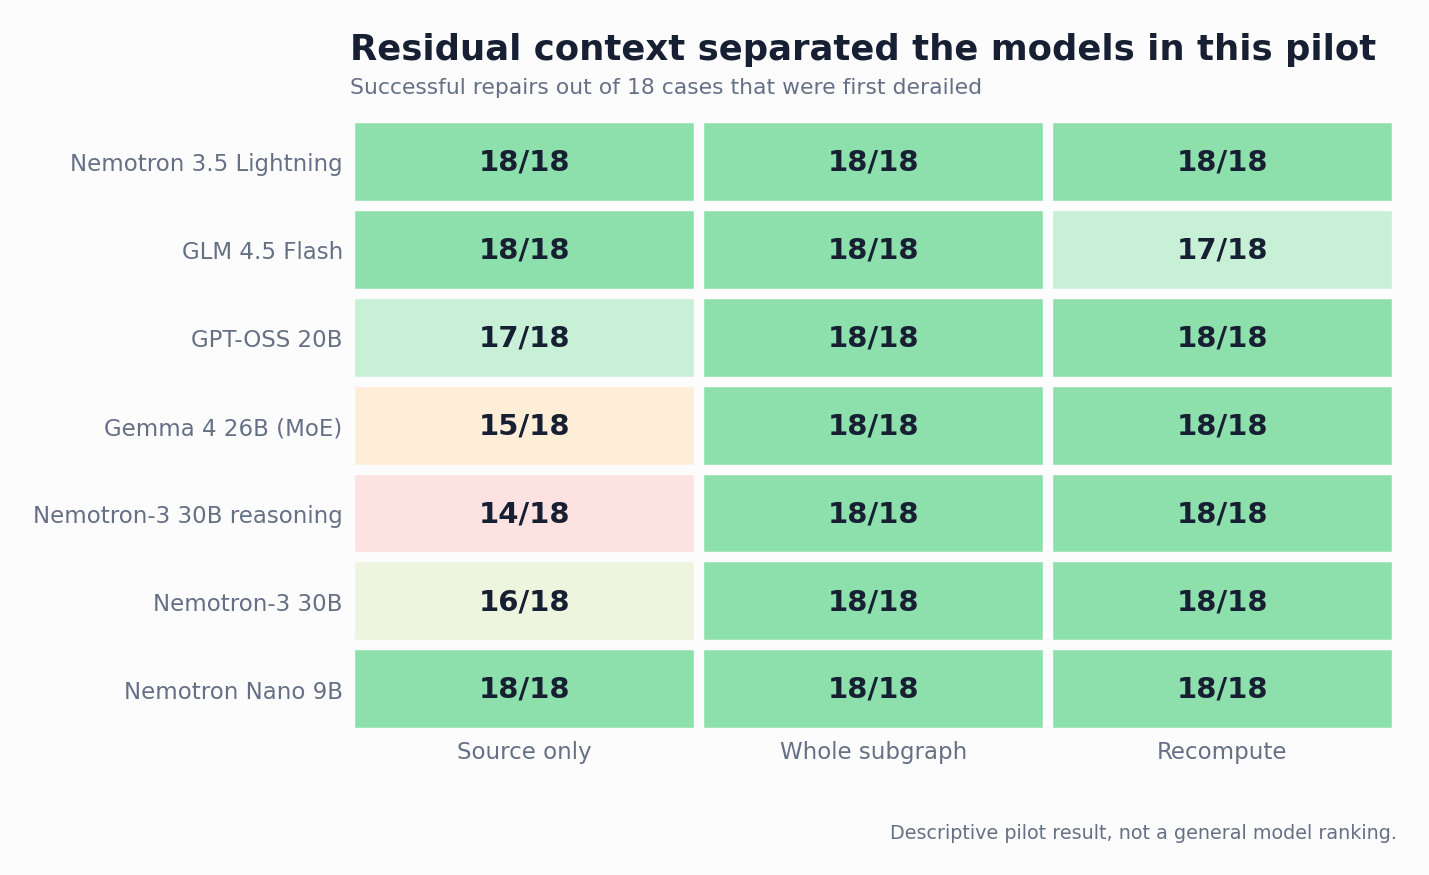
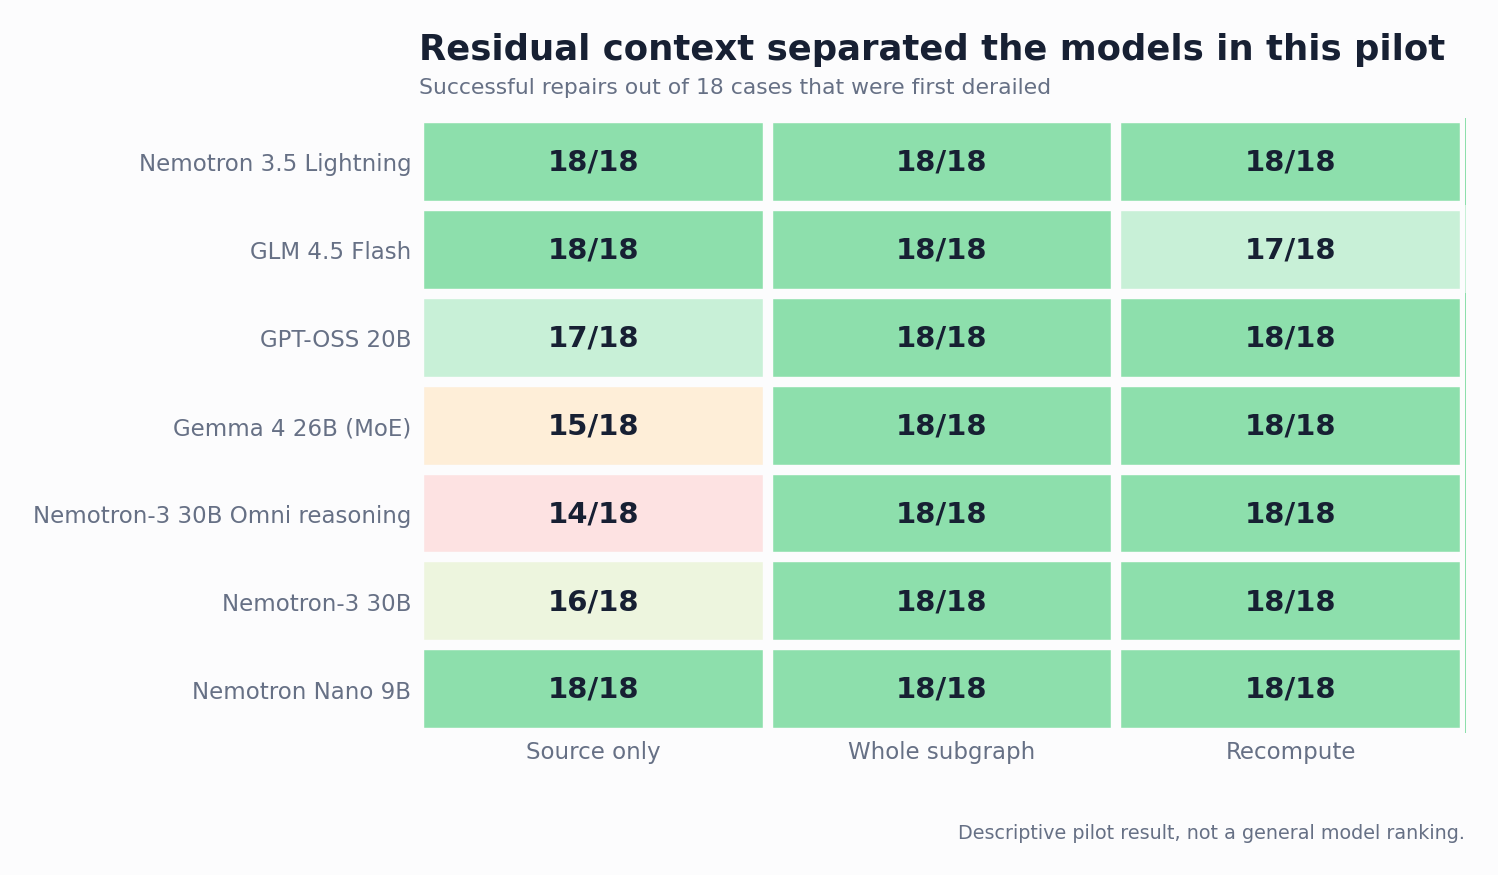
A claim withdrawn is a record kept: the 30B comparison steps down to exploratory, and the correction is written where the claim once stood

diff --git a/website/research/context-repair-pilot-v2/index.html b/website/research/context-repair-pilot-v2/index.html
@@ -71,7 +71,7 @@
           <p>A false turn then restores 30. Three descendants propagate that mistake: <code>4 × 30 = 120</code>, then <code>120 + 11 = 131</code>, followed by a restatement of the stale working values. The final question always asks for one number using the fixed inputs.</p>
           <figure class="report-figure">
             <img src="../../assets/context-repair-flagship.png" alt="Five graph conditions and seven model outputs in the flagship depot-crates case" />
-            <figcaption>Five graph states, one unchanged final question. Three of seven endpoints — from three different vendors — still returned the identical wrong number 131 after the false source itself was removed.</figcaption>
+            <figcaption>Five graph states, one unchanged final question. Three of seven endpoints, from three different vendors, still returned the identical wrong number 131 after the false source itself was removed.</figcaption>
           </figure>
         </section>
 
@@ -94,7 +94,7 @@
 
         <section class="report-section" id="flagship">
           <h2>The flagship result</h2>
-          <p>Seven model endpoints were tested at temperature 0 with provider-default reasoning settings. On this one case, every model agrees on four of the five graph states — and splits on exactly one.</p>
+          <p>Seven model endpoints were tested at temperature 0 with provider-default reasoning settings. On this one case, every model agrees on four of the five graph states and splits on exactly one.</p>
           <div class="report-table-wrap">
             <table class="report-table">
               <thead><tr><th>Graph condition</th><th>Outcome across the seven endpoints</th></tr></thead>
@@ -113,14 +113,14 @@
         <section class="report-section" id="pilot">
           <h2>What happened across the full pilot</h2>
           <p>The pilot contains 9 task families at propagation depths 1, 2, and 3. Each model ran 135 conditions. Headline repair metrics are conditioned on cases answered correctly under clean context and incorrectly after pollution. Four endpoints were captured on August 16; three more joined on August 19 as controlled pairs (see the next section).</p>
-          <h3>Context sensitivity was consistent — seven for seven</h3>
+          <h3>Context sensitivity was consistent, seven for seven</h3>
           <ul>
             <li>Clean context: 27/27 correct for every model.</li>
             <li>Explicit misinformation: 9/9 caused a wrong answer for every model.</li>
             <li>False supersession of a verified update: 9/9 caused a wrong answer for every model.</li>
             <li>A numerically similar but irrelevant aside: 0/9 caused a wrong answer for every model.</li>
           </ul>
-          <p>Seven models from four vendors reproduce this three-way split cell for cell. Whether context derails a model is decided by the <em>type</em> of pollution — conflicting claims always land, irrelevant asides never do.</p>
+          <p>Seven endpoints from four vendors reproduce this three-way split cell for cell. Whether context derails a model is decided by the <em>type</em> of pollution: conflicting claims always land, and irrelevant asides never do.</p>
           <h3>Repair strategy mattered</h3>
           <div class="report-table-wrap">
             <table class="report-table">
@@ -136,7 +136,7 @@
             <img src="../../assets/context-repair-strategies.png" alt="Recovery rates for three context repair strategies" />
             <figcaption>Recovery among the 126 paired cases that were first derailed by conflicting context, across all seven endpoints.</figcaption>
           </figure>
-          <p>Nine of the ten source-prune failures occurred in false-supersession cases; Gemma showed the clearest depth pattern: 6/6 at depth 1, 5/6 at depth 2, and 4/6 at depth 3. Stale information that was once true is the stickiest pollution: with the false rollback deleted, its echoes in later turns read like ordinary history.</p>
+          <p>Nine of the ten source-prune failures occurred in false-supersession cases. Gemma showed the clearest depth pattern: 6/6 at depth 1, 5/6 at depth 2, and 4/6 at depth 3. Stale information that was once true is the stickiest pollution: with the false rollback deleted, its echoes in later turns read like ordinary history.</p>
           <figure class="report-figure">
             <img src="../../assets/context-repair-model-matrix.png" alt="Repair successes by model and strategy" />
             <figcaption>The pilot is a test of context intervention, not an authoritative model leaderboard.</figcaption>
@@ -145,7 +145,7 @@
 
         <section class="report-section" id="wave2">
           <h2>A second wave of controlled pairs</h2>
-          <p>Three further free endpoints were chosen not for coverage but as <em>pairs</em>, each isolating one variable. Two predictions were registered before running; both were refuted — which is the point of registering them.</p>
+          <p>Three further free endpoints joined as a second wave. Two predictions were registered before running. One was refuted by the data. The other, it turned out, could not be validly tested with the endpoints as captured; the correction is recorded below rather than papered over.</p>
           <div class="report-table-wrap">
             <table class="report-table">
               <thead><tr><th>Model</th><th>Source only</th><th>by depth (k1 / k2 / k3)</th><th>Subgraph</th><th>Recompute</th></tr></thead>
@@ -154,17 +154,18 @@
                 <tr><td>Nemotron 3.5 Lightning</td><td>18/18</td><td>6 / 6 / 6</td><td>18/18</td><td>18/18</td></tr>
                 <tr><td>Gemma 4 26B (MoE)</td><td>15/18</td><td>6 / 5 / 4</td><td>18/18</td><td>18/18</td></tr>
                 <tr><td>GPT-OSS 20B</td><td>17/18</td><td>6 / 6 / 5</td><td>18/18</td><td>18/18</td></tr>
-                <tr><td>Nemotron-3 Nano 30B <em>reasoning</em></td><td>14/18</td><td>4 / 6 / 4</td><td>18/18</td><td>18/18</td></tr>
+                <tr><td>Nemotron-3 Nano 30B Omni reasoning</td><td>14/18</td><td>4 / 6 / 4</td><td>18/18</td><td>18/18</td></tr>
                 <tr><td>Nemotron-3 Nano 30B</td><td>16/18</td><td>5 / 6 / 5</td><td>18/18</td><td>18/18</td></tr>
                 <tr><td>Nemotron Nano 9B</td><td>18/18</td><td>6 / 6 / 6</td><td>18/18</td><td>18/18</td></tr>
               </tbody>
             </table>
           </div>
-          <h3>Reasoning does not protect against residual context — it may amplify it</h3>
-          <p>The cleanest pair: two 30B models from the same vendor, same architecture, differing only in explicit reasoning. The registered prediction was that a reasoning model would "think through" the contaminated echoes and resist them. The opposite held: the reasoning variant recovered 14/18 under source-only pruning against its sibling's 16/18, and produced the only misinformation-type source-prune failure observed in any model. A plausible mechanism — recorded here as a hypothesis, not a finding — is that explicit reasoning revisits the contaminated echoes as evidence, giving the stale value more chances to be adopted rather than more chances to be doubted.</p>
+          <h3>An exploratory 30B comparison, and a correction</h3>
+          <p>The registered prediction was that an explicitly reasoning model would "think through" contaminated echoes and resist them better than a non-reasoning sibling. The comparison as captured does not test this, for two reasons. The endpoints are different models rather than one model with a switch: the reasoning endpoint is the Omni variant, which ships vision and speech encoders, while its sibling is text-only. And both were run with provider-default reasoning settings, so reasoning was never explicitly toggled on either side.</p>
+          <p>What remains is an exploratory observation between two same-vendor, similar-scale endpoints: the Omni reasoning endpoint recovered 14/18 under source-only pruning against the text-only sibling's 16/18, and produced the only misinformation-type source-prune failure observed in any endpoint. Because the endpoints differ and reasoning was provider-default, this comparison does not isolate the effect of reasoning. A controlled ablation takes one text-only model with reasoning explicitly toggled per request; that experiment is planned, and any claim about reasoning is withheld until it runs.</p>
           <h3>Repair robustness is not a function of scale</h3>
-          <p>The second registered prediction was that a 9B model would break the clean-accuracy ceiling and show weaker repair. It did neither: Nemotron Nano 9B answered 27/27 clean and recovered every derailed case under every strategy — a perfect score its own 30B siblings did not match. Across seven models, resistance to residual contamination does not track parameter count, vendor, or reasoning mode; it looks like an individual property of the training recipe.</p>
-          <p class="report-meta">Two further endpoints (GLM-5.2 as a same-vendor generation pair, Gemma 4 31B dense as an architecture pair) are still being captured through free-tier rate limits and will be added when complete.</p>
+          <p>The second registered prediction was that a 9B model would break the clean-accuracy ceiling and show weaker repair. It did neither: Nemotron Nano 9B answered 27/27 clean and recovered every derailed case under every strategy, a perfect score its own 30B siblings did not match. Across seven endpoints, resistance to residual contamination tracks neither parameter count nor vendor; it looks like an individual property of the training recipe.</p>
+          <p class="report-meta">Two further endpoints are still being captured through free-tier rate limits: GLM-5.2 as a same-vendor generation pair and Gemma 4 31B dense as an architecture pair. They will be added when complete.</p>
         </section>
 
         <section class="report-section" id="meaning">
@@ -182,8 +183,8 @@
         <section class="report-section" id="lengthrot">
           <h2>Interference, not capacity: where this sits next to context-length degradation</h2>
           <p>A separate line of work shows that input <em>length alone</em> hurts models: <a class="text-link" href="https://research.trychroma.com/context-rot" target="_blank" rel="noreferrer">Chroma's Context Rot study ↗</a> measured non-uniform accuracy drops across 18 frontier models well before their advertised windows, and <a class="text-link" href="https://arxiv.org/abs/2502.05167" target="_blank" rel="noreferrer">NoLiMa ↗</a> found 11 of 12 models falling below half their short-context performance by 32K tokens (<a class="text-link" href="https://arxiv.org/abs/2404.06654" target="_blank" rel="noreferrer">RULER ↗</a> makes the same claimed-vs-effective distinction with synthetic retrieval).</p>
-          <p>This pilot is designed to sit on the other side of that divide. Every serialized request here is under 1K tokens — below 1% of any tested model's window — so capacity pressure is excluded by construction. What derails these models is a single conflicting sentence in an otherwise short context: <strong>semantic interference, not length</strong>. The two failure modes are complementary, and conflating them is easy; a token-matched neutral-filler control (same length, no conflict) is the planned next addition to separate them within the same task families.</p>
-          <p>The taxonomies also map onto each other. Context-rot work distinguishes <em>poisoning</em> (errors reproducing through context), <em>distraction</em>, and <em>confusion</em>; our three pollution operators — explicit misinformation, false supersession, and the numerically similar aside — probe the same territory with exact-match scoring. Notably, our "distraction" analogue never landed (0/9 for all seven models at these lengths), consistent with the view that irrelevant content mainly hurts as contexts grow long.</p>
+          <p>This pilot is designed to sit on the other side of that divide. Every serialized request here is under 1K tokens, below 1% of any tested model's window, so capacity pressure is excluded by construction. What derails these models is a single conflicting sentence in an otherwise short context: <strong>semantic interference, not length</strong>. The two failure modes are complementary, and conflating them is easy; a token-matched neutral-filler control (same length, no conflict) is the planned next addition to separate them within the same task families.</p>
+          <p>The taxonomies also map onto each other. Context-rot work distinguishes <em>poisoning</em> (errors reproducing through context), <em>distraction</em>, and <em>confusion</em>; our three pollution operators (explicit misinformation, false supersession, and the numerically similar aside) probe the same territory with exact-match scoring. Notably, our "distraction" analogue never landed (0/9 for all seven models at these lengths), consistent with the view that irrelevant content mainly hurts as contexts grow long.</p>
         </section>
 
         <section class="report-section" id="limits">

diff --git a/website/index.html b/website/index.html
@@ -1971,7 +1971,7 @@
         <div class="research-visual" aria-label="Editable context graph and pilot results">
           <div class="research-visual-bar">
             <span>CONTEXT REPAIR · PILOT V2</span>
-            <span>7 MODELS · 945 RUNS</span>
+            <span>7 ENDPOINTS · 945 CONDITIONS</span>
           </div>
           <div class="mini-graph">
             <svg viewBox="0 0 620 332" preserveAspectRatio="none" aria-hidden="true">

diff --git a/benchmark/tools/generate_figures.py b/benchmark/tools/generate_figures.py
@@ -21,7 +21,7 @@ RUNS = [
     ("GLM 4.5 Flash", "GLM-Flash", ROOT / "benchmark/runs/pilot-v1-glm45flash-2026-08-16/results.json"),
     ("GPT-OSS 20B", "GPT-OSS", ROOT / "benchmark/runs/pilot-v1-gptoss20b/results.json"),
     ("Gemma 4 26B (MoE)", "Gemma-26B", ROOT / "benchmark/runs/pilot-v1-gemma4-26b/results.json"),
-    ("Nemotron-3 30B reasoning", "N3-30B-R", ROOT / "benchmark/runs/pilot-v1-nemotron3-nano30b-reasoning/results.json"),
+    ("Nemotron-3 30B Omni reasoning", "N3-30B-R", ROOT / "benchmark/runs/pilot-v1-nemotron3-nano30b-reasoning/results.json"),
     ("Nemotron-3 30B", "N3-30B", ROOT / "benchmark/runs/pilot-v1-nemotron3-nano30b/results.json"),
     ("Nemotron Nano 9B", "N-9B", ROOT / "benchmark/runs/pilot-v1-nemotron-nano-9b/results.json"),
 ]

diff --git a/benchmark/STATUS.md b/benchmark/STATUS.md
@@ -1,6 +1,6 @@
 # Benchmark STATUS
 
-Last updated: 2026-08-16. Pilot / reference results only; never an authoritative leaderboard.
+Last updated: 2026-08-21. Pilot / reference results only; never an authoritative leaderboard. The benchmark and the v2 report are PUBLIC (repo + chenxiachan.github.io/thoughtdag/research/context-repair-pilot-v2/).
 
 ## Pilot v1 cross-model comparison — COMPLETE (4 models × 135 conditions each, zero capture failures)
 
@@ -29,25 +29,29 @@ Two different vendors' models (gemma-4-26b, gpt-oss-20b) fail the same cell with
 Story canvas: `canvases/results/rp-pilot-depot-crates-k3.story.thoughtdag.json` (Gemma run). Result canvases for all 27 pilot cases generated from pilot-v1-gemma4-26b.
 
 
-## Wave 2 — controlled pairs (2026-08-19), 3 of 5 complete
+## Wave 2 (2026-08-19), 3 of 5 complete
 
-New free endpoints chosen as PAIRS (one variable each), 135 conditions apiece, zero capture failures:
-- nemotron-3-nano-30b-a3b-reasoning vs nemotron-3-nano-30b-a3b (reasoning on/off, same vendor+size+arch)
+New free endpoints, 135 conditions apiece, zero capture failures:
+- nemotron-3-nano-omni-30b-a3b-reasoning and nemotron-3-nano-30b-a3b (an EXPLORATORY same-vendor comparison; see the correction below)
 - nemotron-nano-9b-v2 (scale-down axis)
-- IN PROGRESS: z-ai/glm-5.2:free (generation pair vs glm-4.5-flash), google/gemma-4-31b-it:free (dense pair vs 26b MoE) — free-tier rate limits + one provider 400-bug (OpenRouter routing, "Unknown name labels"); detached grinder running.
+- IN PROGRESS: z-ai/glm-5.2:free (generation pair vs glm-4.5-flash), google/gemma-4-31b-it:free (dense pair vs 26b MoE). Free-tier rate limits plus one provider 400-bug (OpenRouter routing, "Unknown name labels"); detached grinder running.
 
-### Findings (seven models, 126 derailed cells)
-1. Harm three-way split now SEVEN for seven (mis 9/9, temp 9/9, dis 0/9 every model).
+### CORRECTION 2026-08-21: the 30B comparison is not a reasoning ablation
+The wave-2 design intended a reasoning on/off pair. A user audit caught two flaws before they hardened. First, the endpoints are different models, not one model with a switch: the reasoning endpoint is the OMNI variant (ships vision and speech encoders per the NVIDIA model card); its sibling is text-only. Second, both envelopes record provider-default reasoning, so reasoning was never explicitly toggled on either side. Every "reasoning twin / reasoning on-off / reasoning amplifies residual context" claim was therefore withdrawn from the report, READMEs and models.json on 2026-08-21. The observation itself stands as exploratory: 14/18 vs 16/18 source-only recovery, including the only mis-type source-prune failure seen in any endpoint. A true ablation needs one text-only model with reasoning explicitly toggled per request (e.g. enable_thinking true/false); planned as the next capture, requires a runner extension to send per-request reasoning parameters.
+
+### Findings (seven endpoints, 126 derailed cells)
+1. Harm three-way split now SEVEN for seven (mis 9/9, temp 9/9, dis 0/9 every endpoint).
 2. Aggregate repair: subgraph 126/126 · recompute 125/126 · source-only 116/126. 9 of 10 source-prune failures are temporal-supersession.
-3. REGISTERED PREDICTIONS BOTH REFUTED: (a) reasoning does NOT protect against residual contamination — reasoning twin 14/18 vs sibling 16/18, and produced the only mis-type source-prune failure ever observed; (b) 9B did NOT break the clean ceiling — 27/27 clean and perfect 54/54 repair. Repair robustness tracks neither scale, vendor, nor reasoning mode.
-4. depot-crates k1/k3 → 131 is now a cross-model attractor (4 models produce the identical wrong number).
+3. Registered predictions: (a) "reasoning protects against residual contamination" could NOT be validly tested (see correction above); (b) "9B breaks the clean ceiling and repairs worse" REFUTED: 27/27 clean and perfect 54/54 repair. Repair robustness tracks neither parameter count nor vendor.
+4. depot-crates k1/k3 → 131 is a cross-endpoint attractor (4 endpoints produce the identical wrong number).
 
-Report page updated locally (website/research/context-repair-pilot-v1/index.html) — NOT yet committed; user review pending.
+Report v2 published 2026-08-21 (website/research/context-repair-pilot-v2/; v1 kept as an archived snapshot).
 
-## Gates before anything public
-1. Human visual sign-off on story canvases (open in ThoughtDAG).
-2. benchmark/ into git; models.json VERIFY (ids checked, README numbers current).
-3. First article drafts from depot-crates k3; label all numbers "Pilot / reference results".
+## Remaining gates
+1. Human visual sign-off on story canvases (open in ThoughtDAG) — still pending.
+2. Complete glm-5.2 and gemma-4-31b captures; score; lift the report to nine endpoints.
+3. Controlled reasoning ablation (enable_thinking toggle on one text-only model).
+4. First standalone article from depot-crates k3; label all numbers "Pilot / reference results".
 
 ## Cost note
 Entire 4-model pilot ran at $0 (free tiers). Measured pilot usage ≈30K in / 94K out tokens per model (thinking-mode upper bound).

diff --git a/benchmark/README.md b/benchmark/README.md
@@ -2,7 +2,7 @@
 
 Graph-shaped context operations, measured. When wrong, outdated or irrelevant information propagates through a multi-turn conversation, how much answer quality do explicit pruning and recomputation recover — and how does that recovery decay with propagation depth?
 
-Start at `DESIGN.md` for the full experimental design; the published report lives at [chenxiachan.github.io/thoughtdag/research/context-repair-pilot-v1](https://chenxiachan.github.io/thoughtdag/research/context-repair-pilot-v1/). All numbers are **pilot / reference results**, never an authoritative leaderboard.
+Start at `DESIGN.md` for the full experimental design; the published report lives at [chenxiachan.github.io/thoughtdag/research/context-repair-pilot-v2](https://chenxiachan.github.io/thoughtdag/research/context-repair-pilot-v2/). All numbers are **pilot / reference results**, never an authoritative leaderboard.
 
 Two layers, two evidence duties: the **scientific core** (Repair: Pollute → Propagate → Prune, paired depth families) and the **scenario suite** (branch-merge, condense demos). Never one leaderboard.
 
@@ -40,11 +40,13 @@ node tools/validate.mjs && node tools/compile.mjs && node tools/equivalence.mjs
 BENCH_SUITE=pilot-v1 node tools/run-capture.mjs <run_id>
 ```
 
+Naming note: the task suite is the frozen `pilot-v1` set (9 families × 3 depths); "Pilot v2" names the second REPORT revision with the added endpoint wave. Suite ids never change once captured runs reference them.
+
 Requires the repo root's `node_modules` (the compiler is the product's own `buildContext`, bundled via esbuild) and, for new captures only, the key named by the envelope's `key_env` in `.env`.
 
 ## Status
 
 - Reference gate closed 2026-08-16 (five audit rounds); pilot approved and captured.
 - Wave 1 (2026-08-16): glm-4.5-flash, nemotron-3.5-lightning, gemma-4-26b, gpt-oss-20b — 540 conditions, 0 capture failures.
-- Wave 2 (2026-08-19, controlled pairs): nemotron-3-nano-30b ± reasoning, nemotron-nano-9b — 405 conditions, 0 capture failures. glm-5.2 and gemma-4-31b in capture (free-tier rate limits).
+- Wave 2 (2026-08-19): nemotron-3-nano-omni-30b-reasoning, nemotron-3-nano-30b, nemotron-nano-9b. 405 conditions, 0 capture failures. The two 30B endpoints are an EXPLORATORY comparison, not a reasoning ablation: they differ in modality stack and reasoning was provider-default on both. glm-5.2 and gemma-4-31b in capture (free-tier rate limits).
 - Registered predictions and their outcomes are recorded in `STATUS.md`.

diff --git a/README_ZH.md b/README_ZH.md
@@ -109,11 +109,11 @@ npm run dev       # → localhost:5173
 
 错误信息进入一段 LLM 对话后，究竟要移除多少受影响的路径，回答才能恢复？
 
-> 七个模型、126 个配对案例：只删除错误源头修复 **116/126**；移除受污染子图修复 **126/126**。同尺寸的推理版模型在残留污染下的修复率反而低于非推理版。
+> 七个模型端点、126 个配对案例：只删除错误源头修复 **116/126**。移除受污染子图修复 **126/126**。
 
 这个实验不解释模型内部为何这样回答，也不做通用模型排名。它检验的是一个更窄、可观察的问题：改变可见上下文，会不会改变下一次回答？
 
-📖 **[阅读首轮案例](https://chenxiachan.github.io/thoughtdag/stories/context-repair/?lang=zh)** · 📊 **[实验方法与结果](https://chenxiachan.github.io/thoughtdag/research/context-repair-pilot-v2/?lang=zh)** · 💬 **[建议下一轮测试模型](https://github.com/chenxiachan/thoughtdag/issues/new)**
+📖 **[阅读首轮案例](https://chenxiachan.github.io/thoughtdag/stories/context-repair/?lang=zh)** · 📊 **[实验方法与结果（英文技术报告）](https://chenxiachan.github.io/thoughtdag/research/context-repair-pilot-v2/)** · 💬 **[建议下一轮测试模型](https://github.com/chenxiachan/thoughtdag/issues/new)**
 
 ## 更多能力
 

diff --git a/README.md b/README.md
@@ -111,7 +111,7 @@ Want a ten-second look before installing anything? The [hosted demo](https://app
 
 When misleading context enters an LLM conversation, how much of the affected path must be removed before the answer recovers?
 
-> Across seven models, **116/126** cases recovered after deleting only the misleading source; **126/126** after removing the contaminated subgraph. A same-size reasoning twin repaired *fewer* residual-context cases than its non-reasoning sibling.
+> Across seven endpoints, **116/126** cases recovered after deleting only the misleading source. **126/126** recovered after removing the contaminated subgraph.
 
 This does not explain hidden model reasoning or rank models. It tests a narrower, observable claim: changing visible context changes the next answer.
 
